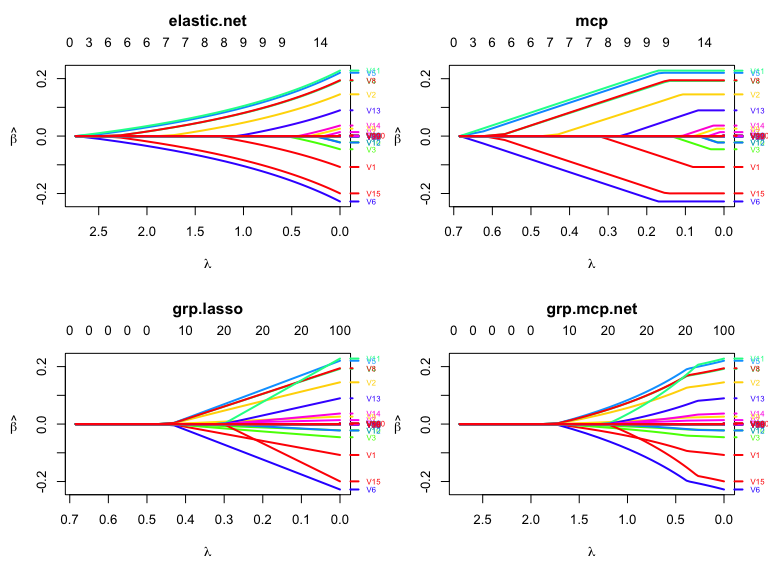
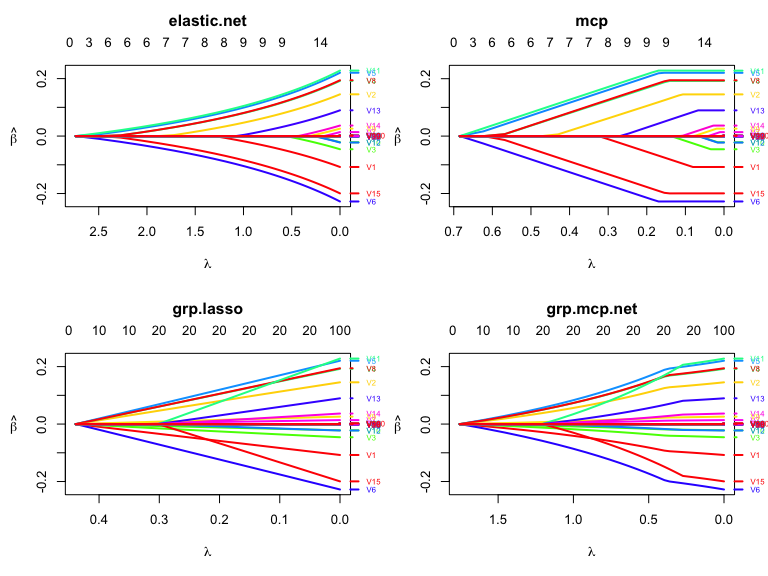
vignette update

diff --git a/README.md b/README.md
@@ -29,9 +29,9 @@ EM: A design-based least squares algorithm, Technometrics, Volume 58,
 Pages 285-293,  
 <http://dx.doi.org/10.1080/00401706.2015.1054436>.
 
-Huling, J.D. and Chien, P. (2018), Fast Penalized Regression and Cross
-Validation for Tall Data with the OEM Package, Journal of Statistical
-Software, to appear, URL: <https://arxiv.org/abs/1801.09661>.
+Huling, J.D. and Chien, P. (2022), Fast Penalized Regression and Cross
+Validation for Tall Data with the oem Package, Journal of Statistical
+Software, Volume 104, Issue 6, <https://doi.org/10.18637/jss.v104.i06>.
 
 ## Penalties
 
@@ -67,17 +67,20 @@ microbenchmark(
 )
 ```
 
-    ## Unit: seconds
-    ##           expr      min       lq     mean   median       uq      max neval cld
-    ##  glmnet[lasso] 5.325385 5.374823 5.859432 6.000302 6.292411 6.304239     5  a 
-    ##     oem[lasso] 1.539320 1.573569 1.600241 1.617136 1.631450 1.639730     5   b
+    ## Unit: milliseconds
+    ##           expr       min        lq      mean    median        uq       max
+    ##  glmnet[lasso] 1260.3136 1276.4218 1299.1889 1309.9995 1321.8656 1327.3437
+    ##     oem[lasso]  426.5575  428.8234  445.0209  443.6717  453.7979  472.2539
+    ##  neval cld
+    ##      5  a 
+    ##      5   b
 
 ``` r
 # difference of results
 max(abs(coef(res1) - res2$beta[[1]]))
 ```
 
-    ## [1] 1.048243e-07
+    ## [1] 1.04823e-07
 
 ``` r
 res1 <- glmnet(x, y, thresh = 1e-12, 
@@ -89,7 +92,61 @@ res1 <- glmnet(x, y, thresh = 1e-12,
 max(abs(coef(res1) - res2$beta[[1]]))
 ```
 
-    ## [1] 3.763507e-09
+    ## [1] 3.763212e-09
+
+### Accelerated OEM Iterations
+
+By default, the OEM iterations are accelerated with FISTA and adaptive
+restarting (`accelerate = "fista"`). SQUAREM (`accelerate = "squarem"`)
+is also available, and `accelerate = "none"` gives the plain OEM
+iterations. Acceleration matters most when the variables are strongly
+correlated, where plain OEM needs many iterations for each value of
+lambda. Below, the variables follow an AR(1) correlation structure with
+correlation 0.9 between neighbors, and each fit is compared with a
+tightly converged `glmnet` fit on the same lambda sequence. The first
+row uses plain OEM with the previous default of 500 iterations per
+lambda.
+
+``` r
+set.seed(123)
+n <- 2000
+p <- 500
+x <- matrix(rnorm(n * p), n, p)
+for (j in 2:p) x[, j] <- 0.9 * x[, j - 1] + sqrt(1 - 0.9 ^ 2) * x[, j]
+b <- c(runif(10, -1, 1), rep(0, p - 10))[sample(p)]
+y <- drop(x %*% b) + rnorm(n)
+
+lambdas <- oem(x, y, penalty = "lasso")$lambda[[1]]
+ref <- as.matrix(coef(glmnet(x, y, lambda = lambdas, thresh = 1e-14)))
+
+settings <- list("plain, maxit = 500" = list(accelerate = "none", maxit = 500),
+                 "plain"              = list(accelerate = "none"),
+                 "fista (default)"    = list(accelerate = "fista"),
+                 "squarem"            = list(accelerate = "squarem"))
+
+comparison <- t(sapply(settings, function(s) {
+    time <- system.time(fit <- do.call(oem, c(list(x, y, penalty = "lasso", lambda = lambdas), s)))
+    maxit <- if (is.null(s$maxit)) 5000 else s$maxit
+    c(seconds          = unname(time["elapsed"]),
+      iterations       = sum(fit$niter[[1]]),
+      lambdas_at_maxit = sum(fit$niter[[1]] >= maxit),
+      max_diff_glmnet  = max(abs(fit$beta[[1]] - ref)))
+}))
+comparison
+```
+
+    ##                    seconds iterations lambdas_at_maxit max_diff_glmnet
+    ## plain, maxit = 500   1.075      48343               93    6.300760e-03
+    ## plain                8.153     368041               46    7.046760e-06
+    ## fista (default)      0.839      35633                0    3.737041e-06
+    ## squarem              0.549      22979                0    3.723342e-06
+
+``` r
+system.time(glmnet(x, y, lambda = lambdas, thresh = 1e-10))
+```
+
+    ##    user  system elapsed 
+    ##   1.358   0.012   1.371
 
 ### Nonconvex Penalties
 
@@ -150,17 +207,17 @@ microbenchmark(
 
     ## Unit: milliseconds
     ##            expr        min         lq       mean     median         uq
-    ##  sparsenet[mcp] 1466.54465 1492.72548 1527.32113 1517.19926 1579.70827
-    ##        oem[mcp]   95.71381   98.09740  105.90083  105.76415  110.31668
-    ##     ncvreg[mcp] 5196.48035 5541.69429 5669.10010 5611.31491 5865.06723
-    ##       oem[scad]   70.74110   71.46554   80.21926   78.76494   84.25458
-    ##    ncvreg[scad] 5289.59790 5810.69254 5801.60997 5950.84377 5964.01276
-    ##         max neval cld
-    ##  1580.42800     5 a  
-    ##   119.61209     5  b 
-    ##  6130.94372     5   c
-    ##    95.87013     5  b 
-    ##  5992.90288     5   c
+    ##  sparsenet[mcp] 1020.71144 1021.67974 1025.02210 1024.83957 1026.75988
+    ##        oem[mcp]   38.10610   38.16046   38.40460   38.18998   38.62651
+    ##     ncvreg[mcp] 3633.25990 3633.53455 3642.49581 3642.71728 3647.88742
+    ##       oem[scad]   34.57764   34.91056   34.99031   34.92585   35.01605
+    ##    ncvreg[scad] 3849.89229 3851.93864 3854.76868 3855.09003 3857.45983
+    ##         max neval  cld
+    ##  1031.11986     5 a   
+    ##    38.93995     5  b  
+    ##  3655.07989     5   c 
+    ##    35.52146     5  b  
+    ##  3859.46263     5    d
 
 ``` r
 diffs <- array(NA, dim = c(2, 1))
@@ -171,8 +228,8 @@ diffs
 ```
 
     ##                          abs diff
-    ## MCP:  oem and ncvreg 1.725859e-07
-    ## SCAD: oem and ncvreg 5.094648e-08
+    ## MCP:  oem and ncvreg 1.725784e-07
+    ## SCAD: oem and ncvreg 5.093743e-08
 
 ### Group Penalties
 
@@ -225,15 +282,15 @@ microbenchmark(
 
     ## Unit: milliseconds
     ##                 expr        min         lq       mean     median         uq
-    ##   gglasso[grp.lasso]  679.59049  724.16350  858.99280  801.79179  865.83580
-    ##       oem[grp.lasso]   59.84769   62.23879   64.11779   63.36026   64.30146
-    ##  grplasso[grp.lasso] 3714.92601 3753.18663 4322.32431 4537.50185 4786.80867
-    ##    grpreg[grp.lasso] 1216.21794 1248.84647 1270.46132 1269.71047 1287.75969
-    ##         max neval cld
-    ##  1223.58241     5 a  
-    ##    70.84075     5  b 
-    ##  4819.19839     5   c
-    ##  1329.77201     5 a
+    ##   gglasso[grp.lasso]  297.39116  298.22293  299.11078  298.79767  299.92500
+    ##       oem[grp.lasso]   22.88964   23.23601   23.47237   23.25143   23.40645
+    ##  grplasso[grp.lasso] 2414.20509 2423.09032 2454.95741 2432.07027 2481.75903
+    ##    grpreg[grp.lasso]  696.54953  704.36438  705.85675  704.50562  704.98840
+    ##         max neval  cld
+    ##   301.21712     5 a   
+    ##    24.57831     5  b  
+    ##  2523.66234     5   c 
+    ##   718.87584     5    d
 
 ``` r
 diffs <- array(NA, dim = c(2, 1))
@@ -244,8 +301,8 @@ diffs
 ```
 
     ##                      abs diff
-    ## oem and gglasso  1.303906e-06
-    ## oem and grplasso 1.645871e-08
+    ## oem and gglasso  1.323814e-06
+    ## oem and grplasso 1.896211e-08
 
 #### Bigger Group Lasso Example
 
@@ -271,7 +328,7 @@ system.time(res <- oem(x, y,
 ```
 
     ##    user  system elapsed 
-    ##   2.043   0.222   2.267
+    ##   0.655   0.068   0.724
 
 ### Fitting Multiple Penalties
 
@@ -311,8 +368,8 @@ microbenchmark(
 
     ## Unit: milliseconds
     ##                     expr      min       lq     mean   median       uq      max
-    ##               oem[lasso] 125.6408 126.7870 130.3534 127.3374 133.4962 138.5055
-    ##  oem[lasso/mcp/scad/ols] 148.3162 152.1743 153.0176 152.4529 154.4300 157.7144
+    ##               oem[lasso] 44.49324 45.65079 45.61038 45.72796 46.05628 46.12361
+    ##  oem[lasso/mcp/scad/ols] 59.09109 59.74372 60.52188 60.20559 61.02395 62.54505
     ##  neval cld
     ##      5  a 
     ##      5   b
@@ -332,4 +389,4 @@ plot(res2, which.model = 7, lwd = 2,
      xvar = "lambda")
 ```
 
-<img src="vignettes/mult-1.png" style="display: block; margin: auto;" />
+<img src="vignettes/mult-1.png" alt="" style="display: block; margin: auto;" />

diff --git a/NEWS.md b/NEWS.md
@@ -1,4 +1,4 @@
-# oem 2.0.13
+# oem 2.1.0
 
 ## Bug fixes
 
@@ -38,6 +38,27 @@
   in `glmnet`. This was already the case for a dense `x` with an intercept; it
   now holds for every solver except `oem.xtx()`, which does not see `y`.
 
+## New features
+
+* The OEM iterations are now accelerated by default. The new `accelerate`
+  argument of `oem()`, `cv.oem()`, `xval.oem()`, `big.oem()`, and `oem.xtx()`
+  selects FISTA with adaptive restarting (`"fista"`, the default), SQUAREM
+  (`"squarem"`), or plain OEM (`"none"` or `FALSE`). For the nonconvex
+  penalties, an accelerated step is accepted only if it does not increase the
+  objective. On correlated designs, FISTA reduced computation time along the
+  path by a factor of 4 to 10 and fitted the path to the requested tolerance
+  in cases where plain OEM stopped at `maxit` before converging.
+
+## Changes in defaults
+
+* `accelerate = "fista"` is the default, so results change slightly for every
+  model. Use `accelerate = "none"` to reproduce the plain OEM iterations of
+  previous versions.
+* The default `maxit` is now 5000 instead of 500. With 500 iterations, plain
+  OEM often stopped before convergence for correlated variables, without a
+  warning. Fits that converge sooner stop sooner, so the higher limit costs
+  nothing for them.
+
 ## Performance
 
 * Fits with a sparse `x`, logistic regression, `big.oem()`, and `xval.oem()`
@@ -50,3 +71,5 @@
 * Sparse matrices are mapped with `Eigen::Map<Eigen::SparseMatrix>`, so the
   package builds with Eigen 5 (#26, from Dirk Eddelbuettel).
 * Added a testthat suite, including comparisons with `glmnet`.
+* `src/Makevars` assigned `PKG_CXXFLAGS` twice, so `-DNDEBUG` was dropped and
+  Eigen's debugging assertions were compiled in. It is now set once.
